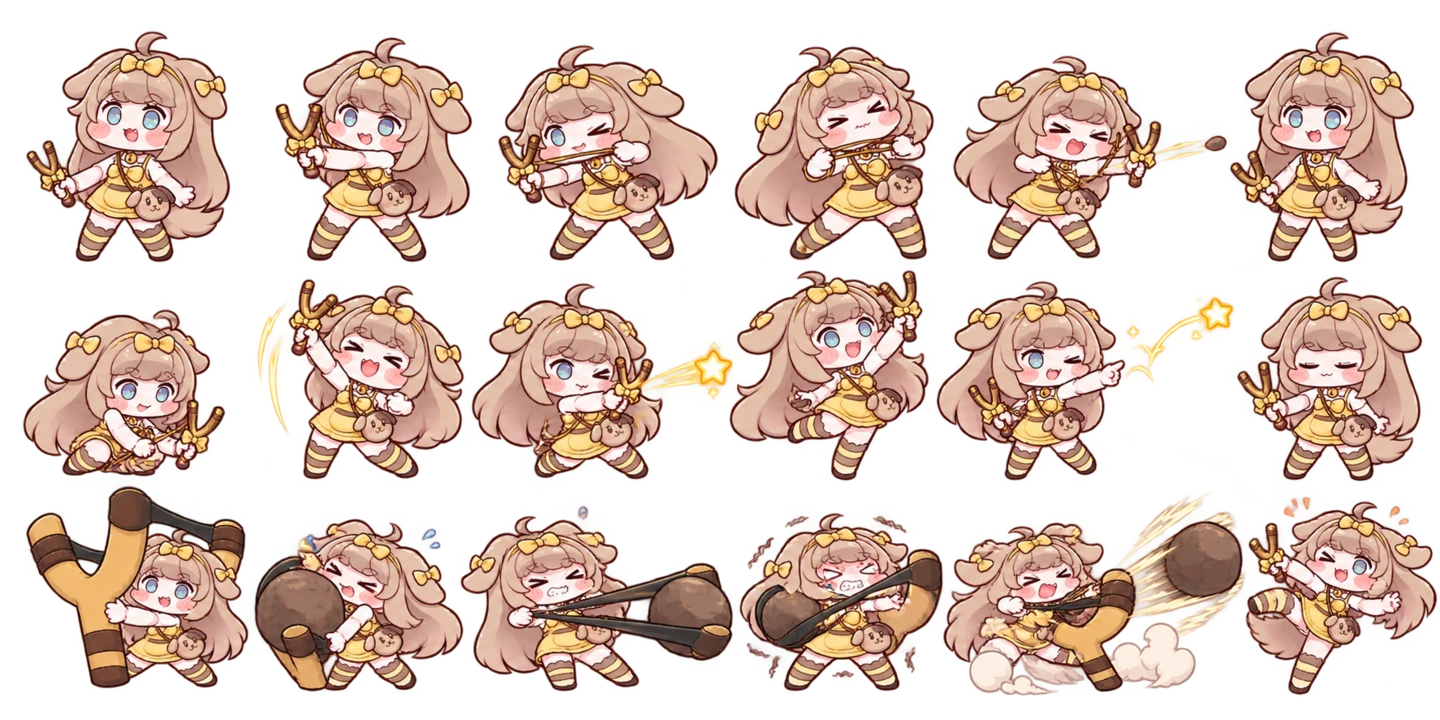
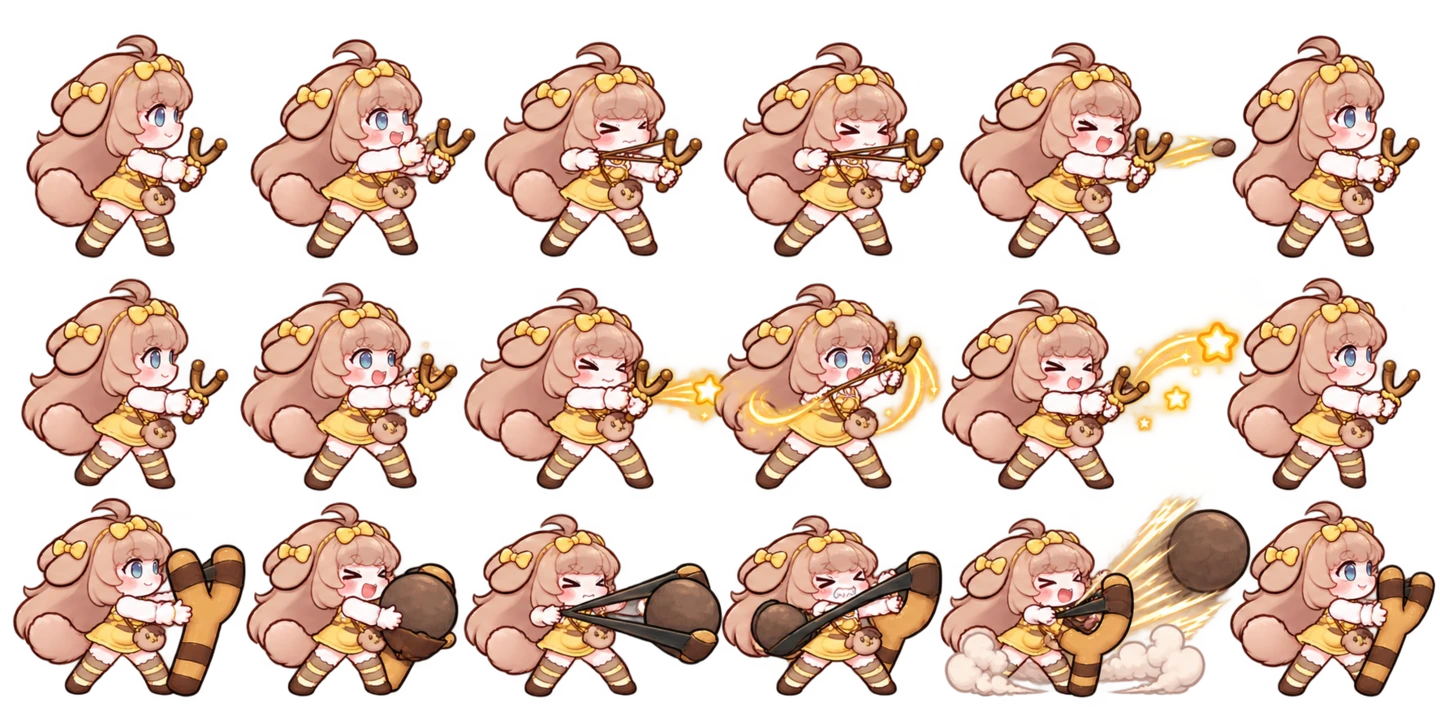
Add directional Butter walk and fix attack frames

diff --git a/app.js b/app.js
@@ -14,7 +14,7 @@ import {
   revealSecretAt,
   rollItems,
   upperPower
-} from "./survivor-engine.js?v=20";
+} from "./survivor-engine.js?v=21";
 
 const LOGICAL = { width: 800, height: 1450 };
 const WALL = 58;
@@ -25,13 +25,13 @@ const canvas = document.querySelector("#game-canvas");
 const stage = document.querySelector("#game-stage");
 const ctx = canvas.getContext("2d");
 const $ = (selector) => document.querySelector(selector);
-const iconMarkup = (id) => "<svg class=\"ui-icon\" aria-hidden=\"true\"><use href=\"./assets/ui-icons.svg?v=20#" + id + "\"></use></svg>";
+const iconMarkup = (id) => "<svg class=\"ui-icon\" aria-hidden=\"true\"><use href=\"./assets/ui-icons.svg?v=21#" + id + "\"></use></svg>";
 
 const heroAtlas = new Image();
 let heroArtReady = false;
 heroAtlas.decoding = "async";
 heroAtlas.addEventListener("load", () => { heroArtReady = true; });
-heroAtlas.src = "./assets/trickcal-heroes.webp?v=20";
+heroAtlas.src = "./assets/trickcal-heroes.webp?v=21";
 
 const butterActionAtlases = {
   side: new Image(),
@@ -46,8 +46,14 @@ for (const [direction, filename] of [
 ]) {
   butterActionAtlases[direction].decoding = "async";
   butterActionAtlases[direction].addEventListener("load", () => { butterActionPartsLoaded += 1; });
-  butterActionAtlases[direction].src = "./assets/" + filename + "?v=20";
+  butterActionAtlases[direction].src = "./assets/" + filename + "?v=21";
 }
+
+const butterWalkAtlas = new Image();
+let butterWalkReady = false;
+butterWalkAtlas.decoding = "async";
+butterWalkAtlas.addEventListener("load", () => { butterWalkReady = true; });
+butterWalkAtlas.src = "./assets/butter-walk.webp?v=21";
 
 const ENEMY_TYPES = {
   jelly: { hp: 34, speed: 78, radius: 25, damage: 9, color: "#b984cd", accent: "#f2d6ff" },
@@ -445,6 +451,11 @@ function movePlayer(dt) {
   } else {
     player.moving = true;
     player.phase += dt * 9;
+    const aim = getAim();
+    if (!aim.firing && !butterAction) {
+      player.facingX = movement.x / length;
+      player.facingY = movement.y / length;
+    }
     const speed = run.moveSpeed * (giantTimer > 0 ? 0.88 : 1);
     player.x += movement.x * speed * dt;
     player.y += movement.y * speed * dt;
@@ -1285,8 +1296,9 @@ function drawDoorIcon(destination, locked) {
 function drawHero() {
   const giant = giantTimer > 0 ? upperPower(run).scale : 1;
   const size = (run.characterId === "butter" ? 112 : 118) * giant;
-  const stride = player.moving && sleepTimer <= 0 ? Math.sin(player.phase) : 0;
-  const breathe = sleepTimer <= 0 ? Math.sin(elapsed * 2.5) * 0.006 : 0;
+  const butterWalking = run.characterId === "butter" && player.moving && !butterAction && butterWalkReady;
+  const stride = player.moving && sleepTimer <= 0 && !butterWalking ? Math.sin(player.phase) : 0;
+  const breathe = sleepTimer <= 0 && !butterWalking ? Math.sin(elapsed * 2.5) * 0.006 : 0;
   ctx.save();
   ctx.translate(player.x, player.y);
 
@@ -1327,13 +1339,15 @@ function drawHero() {
     ctx.scale(1 + Math.abs(stride) * 0.012 + breathe, 1 - Math.abs(stride) * 0.008 - breathe);
     const facingDirection = getButterFacingDirection();
     const shouldFlip = run.characterId === "butter"
-      ? facingDirection === "side" && player.facingX < 0
+      ? facingDirection === "side" && (butterWalking ? player.facingX > 0 : player.facingX < 0)
       : player.facingX < -0.08;
     if (shouldFlip) ctx.scale(-1, 1);
   }
 
   if (hurtTimer > 0 && Math.floor(hurtTimer * 18) % 2 === 0) ctx.globalAlpha = 0.42;
-  if (run.characterId === "butter" && butterActionPartsLoaded >= 3) {
+  if (butterWalking) {
+    drawButterWalkSprite(size);
+  } else if (run.characterId === "butter" && butterActionPartsLoaded >= 3) {
     drawButterDirectionalSprite(size);
   } else if (heroArtReady && heroAtlas.naturalWidth) {
     const half = heroAtlas.naturalWidth / 2;
@@ -1359,6 +1373,27 @@ function drawHero() {
 function getButterFacingDirection() {
   if (Math.abs(player.facingX) > Math.abs(player.facingY) * 0.82) return "side";
   return player.facingY < 0 ? "up" : "down";
+}
+
+function drawButterWalkSprite(baseSize) {
+  const direction = getButterFacingDirection();
+  const rows = { down: 0, side: 1, up: 2 };
+  const row = rows[direction] ?? 0;
+  const frame = Math.floor(player.phase * 0.9) % 6;
+  const cellWidth = butterWalkAtlas.naturalWidth / 6;
+  const cellHeight = butterWalkAtlas.naturalHeight / 3;
+  const drawSize = baseSize * 1.28;
+  ctx.drawImage(
+    butterWalkAtlas,
+    frame * cellWidth,
+    row * cellHeight,
+    cellWidth,
+    cellHeight,
+    -drawSize / 2,
+    -drawSize * 0.68,
+    drawSize,
+    drawSize
+  );
 }
 
 function drawButterDirectionalSprite(baseSize) {

diff --git a/index.html b/index.html
@@ -5,14 +5,15 @@
     <meta name="viewport" content="width=device-width, initial-scale=1, viewport-fit=cover, maximum-scale=1, user-scalable=no" />
     <meta name="theme-color" content="#f6c760" />
     <meta name="description" content="셰이디의 뒤틀린 아공간에서 탈출하는 방 탐험 액션 로그라이트" />
-    <link rel="manifest" href="./manifest.webmanifest?v=20" />
-    <link rel="icon" href="./icon.svg?v=20" type="image/svg+xml" />
-    <link rel="preload" href="./assets/trickcal-heroes.webp?v=20" as="image" type="image/webp" />
-    <link rel="preload" href="./assets/butter-actions.webp?v=20" as="image" type="image/webp" />
-    <link rel="preload" href="./assets/butter-actions-down.webp?v=20" as="image" type="image/webp" />
-    <link rel="preload" href="./assets/butter-actions-up.webp?v=20" as="image" type="image/webp" />
-    <link rel="preload" href="./assets/ui-icons.svg?v=20" as="image" type="image/svg+xml" />
-    <link rel="stylesheet" href="./styles.css?v=20" />
+    <link rel="manifest" href="./manifest.webmanifest?v=21" />
+    <link rel="icon" href="./icon.svg?v=21" type="image/svg+xml" />
+    <link rel="preload" href="./assets/trickcal-heroes.webp?v=21" as="image" type="image/webp" />
+    <link rel="preload" href="./assets/butter-actions.webp?v=21" as="image" type="image/webp" />
+    <link rel="preload" href="./assets/butter-actions-down.webp?v=21" as="image" type="image/webp" />
+    <link rel="preload" href="./assets/butter-actions-up.webp?v=21" as="image" type="image/webp" />
+    <link rel="preload" href="./assets/butter-walk.webp?v=21" as="image" type="image/webp" />
+    <link rel="preload" href="./assets/ui-icons.svg?v=21" as="image" type="image/svg+xml" />
+    <link rel="stylesheet" href="./styles.css?v=21" />
     <title>셰이디의 아공간 탈출</title>
   </head>
   <body>
@@ -45,8 +46,8 @@
         <div class="item-strip" id="item-strip" aria-label="보유 아이템"></div>
         <aside class="minimap" id="minimap" aria-label="아공간 지도"></aside>
         <div class="resource-bar" aria-label="소지품">
-          <span title="열쇠"><svg class="ui-icon"><use href="./assets/ui-icons.svg?v=20#key"></use></svg><b id="key-count">1</b></span>
-          <span title="폭탄"><svg class="ui-icon"><use href="./assets/ui-icons.svg?v=20#bomb"></use></svg><b id="bomb-count">1</b></span>
+          <span title="열쇠"><svg class="ui-icon"><use href="./assets/ui-icons.svg?v=21#key"></use></svg><b id="key-count">1</b></span>
+          <span title="폭탄"><svg class="ui-icon"><use href="./assets/ui-icons.svg?v=21#bomb"></use></svg><b id="bomb-count">1</b></span>
         </div>
         <button class="pause-button" id="pause-button" aria-label="일시 정지">Ⅱ</button>
         <div class="toast" id="toast" role="status" aria-live="polite"></div>
@@ -62,17 +63,17 @@
 
         <div class="ability-buttons">
           <button class="ability bomb-ability" id="bomb-button">
-            <span><svg class="ui-icon"><use href="./assets/ui-icons.svg?v=20#bomb"></use></svg></span>
+            <span><svg class="ui-icon"><use href="./assets/ui-icons.svg?v=21#bomb"></use></svg></span>
             <b>폭탄</b>
             <small id="bomb-label">R · 1</small>
           </button>
           <button class="ability lower-ability" id="lower-ability">
-            <span id="lower-icon"><svg class="ui-icon"><use href="./assets/ui-icons.svg?v=20#slingshot"></use></svg></span>
+            <span id="lower-icon"><svg class="ui-icon"><use href="./assets/ui-icons.svg?v=21#slingshot"></use></svg></span>
             <b id="lower-name">말썽 유도탄</b>
             <small id="lower-cooldown">패시브</small>
           </button>
           <button class="ability upper-ability" id="upper-ability">
-            <span id="upper-icon"><svg class="ui-icon"><use href="./assets/ui-icons.svg?v=20#attack"></use></svg></span>
+            <span id="upper-icon"><svg class="ui-icon"><use href="./assets/ui-icons.svg?v=21#attack"></use></svg></span>
             <b id="upper-name">왕새총 짱돌</b>
             <small id="upper-cooldown">READY</small>
           </button>
@@ -142,6 +143,6 @@
         caches.keys().then((keys) => Promise.all(keys.map((key) => caches.delete(key)))).catch(() => {});
       }
     </script>
-    <script type="module" src="./app.js?v=20"></script>
+    <script type="module" src="./app.js?v=21"></script>
   </body>
 </html>

diff --git a/styles.css b/styles.css
@@ -82,7 +82,7 @@ button:focus-visible {
   border: 3px solid #5d4139;
   border-radius: 17px;
   background-color: #fbd67b;
-  background-image: url("./assets/trickcal-heroes.webp?v=20");
+  background-image: url("./assets/trickcal-heroes.webp?v=21");
   background-repeat: no-repeat;
   background-position: 0 center;
   background-size: 200% 100%;
@@ -603,7 +603,7 @@ button:focus-visible {
   width: 100%;
   min-height: 137px;
   flex: 1;
-  background-image: url("./assets/trickcal-heroes.webp?v=20");
+  background-image: url("./assets/trickcal-heroes.webp?v=21");
   background-repeat: no-repeat;
   background-size: 200% 100%;
 }

diff --git a/docs/butter-animation-notes.md b/docs/butter-animation-notes.md
@@ -17,7 +17,8 @@
 - butter-actions.webp: 오른쪽 측면 평타·저학년·고학년
 - butter-actions-down.webp: 아래 방향 정면 평타·저학년·고학년
 - butter-actions-up.webp: 위 방향 뒷모습 평타·저학년·고학년
-- 왼쪽 방향은 측면 시트를 프레임 단위로 반전해 동일한 타이밍을 유지
+- butter-walk.webp: 정면·왼쪽 측면·후면 6프레임 보행과 꼬리 좌우 움직임
+- 공격 측면 시트는 오른쪽 원본을 왼쪽에서 반전하고, 보행 측면 행은 왼쪽 원본을 오른쪽에서 반전한다.
 
 각 시트는 6열 × 3행이다. 행은 평타, 저학년, 고학년 순서이며 각 동작은 준비, 장전, 최대 장력, 발사, 반동, 회수 단계로 구성된다.
 

diff --git a/README.md b/README.md
@@ -27,6 +27,7 @@
 - 적 스쿼시 모션, 투사체 잔상, 문 맥동, 방 전환 애니메이션
 - 버터의 위·아래·좌·우 조준 방향별 평타·저학년·고학년 6프레임 액션
 - 스프라이트 발사 프레임과 실제 짱돌·유도탄·왕짱돌 생성 타이밍 동기화
+- 버터의 정면·측면·후면 6프레임 보행과 중앙 뿌리를 유지하는 좌우 꼬리 살랑임
 
 키보드는 WASD로 이동하고 방향키로 공격합니다. Q는 저학년 액티브, E는 고학년 액티브, R은 폭탄 설치입니다. 버터의 저학년 능력은 패시브로 자동 발동합니다.
 
